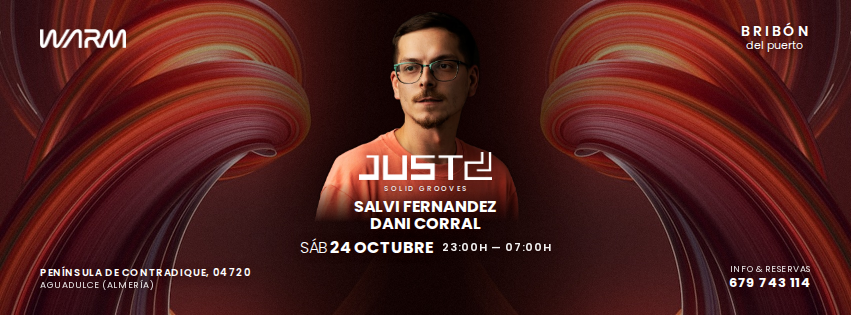
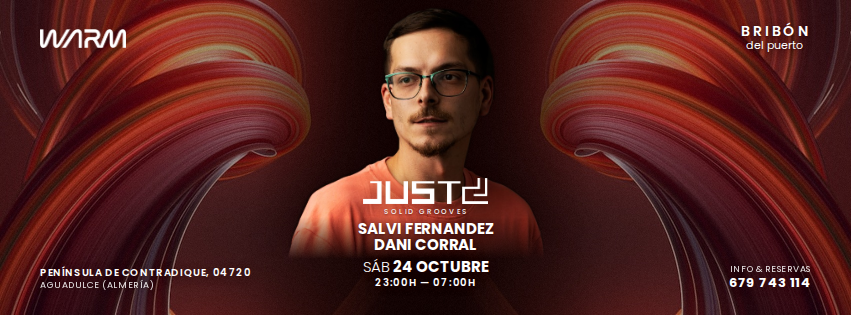
WARM 24.10 — coperte: poza artistului mai mare, orele sub dată
Claude-Session: https://claude.ai/code/session_01PsYJ7xTqRMzxVLnVuQx1Lt

Changed region(s): [[0.3361, 0.0571, 0.6416, 0.9143]]

diff --git a/warm_24oct/cover_851_center.html b/warm_24oct/cover_851_center.html
@@ -3,8 +3,8 @@
 <style>
 *{margin:0;padding:0;box-sizing:border-box}
 body{width:851px;height:315px;overflow:hidden;background:#200606 url(bg_swirl_851.jpg) 0 0/851px 315px no-repeat;font-family:'Poppins',sans-serif;color:#fff;text-transform:uppercase}
-.photo{position:absolute;left:209px;top:-55px;width:440px;height:660px;background:url(photos/just2_cutout.png) 0 0/100% 100% no-repeat;
- -webkit-mask-image:linear-gradient(180deg,#000 0%,#000 36%,rgba(0,0,0,0) 42%);filter:drop-shadow(0 0 18px rgba(20,0,0,.55))}
+.photo{position:absolute;left:150px;top:-77px;width:560px;height:840px;background:url(photos/just2_cutout.png) 0 0/100% 100% no-repeat;
+ -webkit-mask-image:linear-gradient(180deg,#000 0%,#000 35%,rgba(0,0,0,0) 40%);filter:drop-shadow(0 0 18px rgba(20,0,0,.55))}
 .sh{text-shadow:0 1px 8px rgba(40,5,0,.65),0 1px 2px rgba(40,5,0,.4)}
 img.sh{filter:drop-shadow(0 1px 7px rgba(40,5,0,.5))}
 .warm{position:absolute;top:29px;left:40px;width:86px}
@@ -12,13 +12,13 @@ img.sh{filter:drop-shadow(0 1px 7px rgba(40,5,0,.5))}
 .tr b{display:block;font-weight:600;font-size:14px;letter-spacing:.2em;padding-left:.2em}
 .tr i{display:block;font-style:normal;font-weight:400;font-size:11px;text-transform:none;margin-top:2px}
 .tr small{display:block;font-weight:500;font-size:8px;letter-spacing:.14em;margin-top:6px;opacity:.9}
-.c{position:absolute;left:0;right:0;top:152px;display:flex;flex-direction:column;align-items:center;text-align:center}
-.j2{height:28px}
-.label{font-weight:500;font-size:7px;letter-spacing:.38em;padding-left:.38em;margin:4px 0 5px}
-.n{font-weight:700;font-size:16px;line-height:1.05;letter-spacing:-.01em}
-.date{font-weight:700;font-size:16px;line-height:1;margin-top:7px;letter-spacing:-.005em}
+.c{position:absolute;left:0;right:0;top:178px;display:flex;flex-direction:column;align-items:center;text-align:center}
+.j2{height:26px}
+.label{font-weight:500;font-size:7px;letter-spacing:.38em;padding-left:.38em;margin:3px 0 4px}
+.n{font-weight:700;font-size:15px;line-height:1.05;letter-spacing:-.01em}
+.date{font-weight:700;font-size:15px;line-height:1;margin-top:6px;letter-spacing:-.005em}
 .date span{font-weight:300}
-.date em{font-style:normal;font-weight:600;font-size:11px;letter-spacing:.06em;opacity:.95;margin-left:9px;vertical-align:2px}
+.date em{display:block;font-style:normal;font-weight:600;font-size:10px;letter-spacing:.08em;margin-top:4px}
 .l2{font-weight:500;font-size:8.5px;letter-spacing:.07em;margin-top:7px;opacity:.92}
 .l2 em{font-style:normal;opacity:.55;margin:0 6px}
 .bl,.br{position:absolute;bottom:24px;line-height:1.25;text-shadow:0 1px 8px rgba(40,5,0,.65)}

diff --git a/warm_24oct/cover_center.html b/warm_24oct/cover_center.html
@@ -3,15 +3,15 @@
 <style>
 *{margin:0;padding:0;box-sizing:border-box}
 body{width:1920px;height:1005px;overflow:hidden;background:#200606 url(bg_swirl_mirror_1920.jpg) 0 0/1920px 1005px no-repeat;font-family:'Poppins',sans-serif;color:#fff;text-transform:uppercase}
-.photo{position:absolute;left:436px;top:-62px;width:1066px;height:1600px;background:url(photos/just2_cutout.png) 0 0/100% 100% no-repeat;
- -webkit-mask-image:linear-gradient(180deg,#000 0%,#000 40%,rgba(0,0,0,0) 47%);filter:drop-shadow(0 0 40px rgba(20,0,0,.55))}
+.photo{position:absolute;left:338px;top:-142px;width:1266px;height:1900px;background:url(photos/just2_cutout.png) 0 0/100% 100% no-repeat;
+ -webkit-mask-image:linear-gradient(180deg,#000 0%,#000 40%,rgba(0,0,0,0) 45%);filter:drop-shadow(0 0 40px rgba(20,0,0,.55))}
 .sh{text-shadow:0 2px 16px rgba(40,5,0,.6),0 1px 3px rgba(40,5,0,.4)}
 img.sh{filter:drop-shadow(0 2px 14px rgba(40,5,0,.5))}
 .warm{position:absolute;top:66px;left:90px;width:190px}
 .tr{position:absolute;top:56px;right:90px;text-align:center;line-height:1}
 .tr b{display:block;font-weight:600;font-size:32px;letter-spacing:.2em;padding-left:.2em}
 .tr i{display:block;font-style:normal;font-weight:400;font-size:24px;text-transform:none;margin-top:4px}
-.c{position:absolute;left:0;right:0;top:452px;display:flex;flex-direction:column;align-items:center;text-align:center}
+.c{position:absolute;left:0;right:0;top:450px;display:flex;flex-direction:column;align-items:center;text-align:center}
 .j2{height:96px}
 .label{font-weight:500;font-size:16px;letter-spacing:.38em;padding-left:.38em;margin:10px 0 14px}
 .n{font-weight:700;font-size:52px;line-height:1.06;letter-spacing:-.015em}
